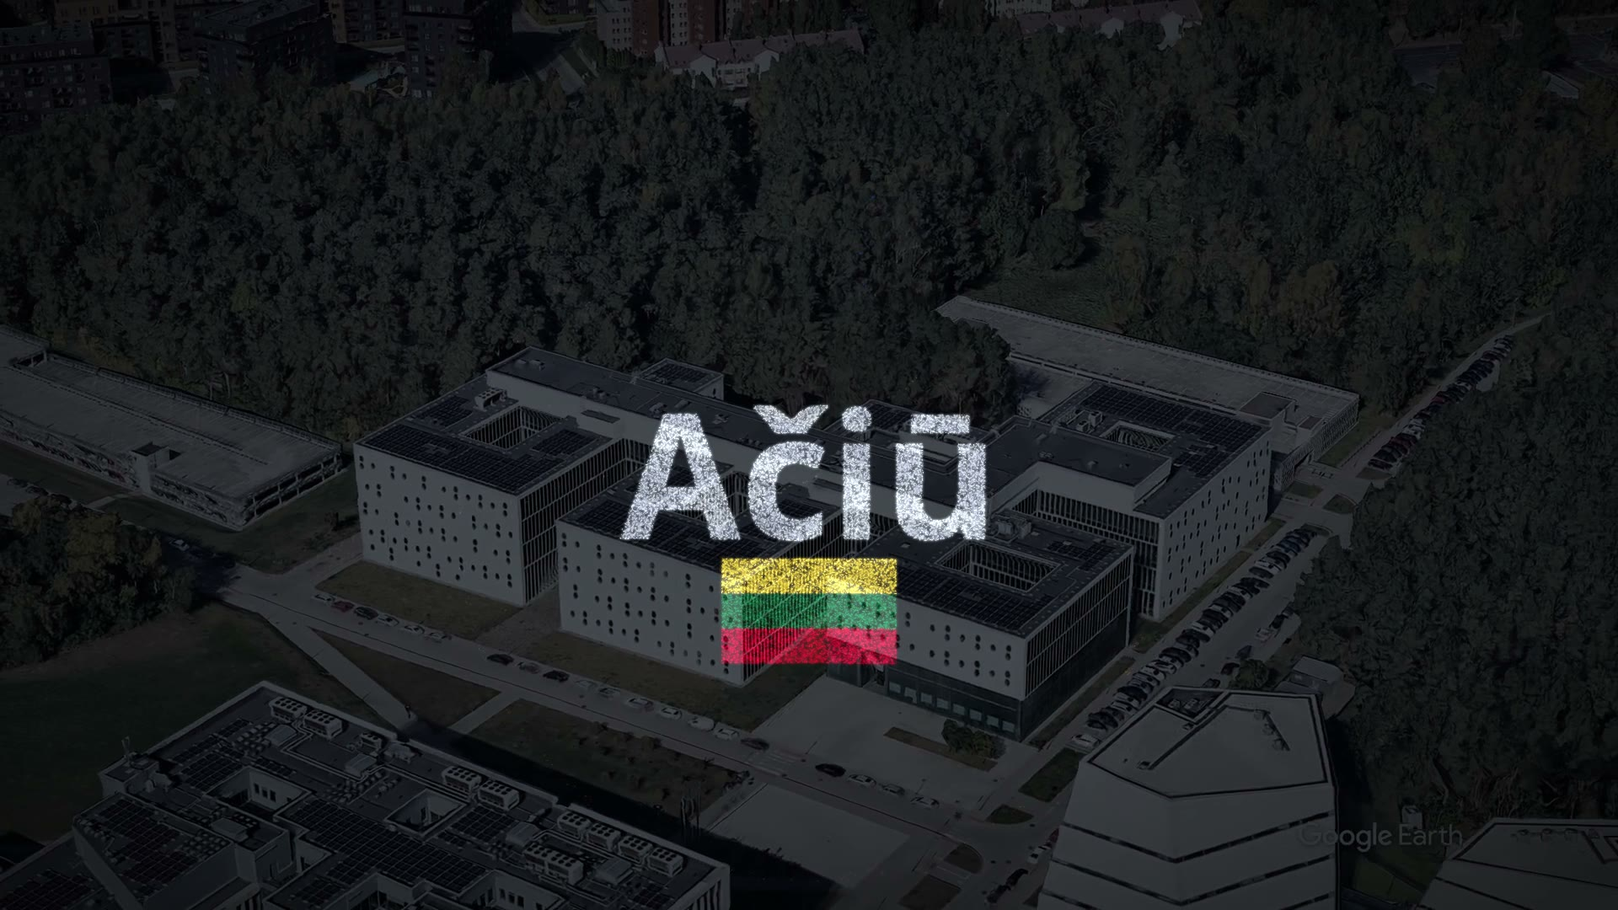
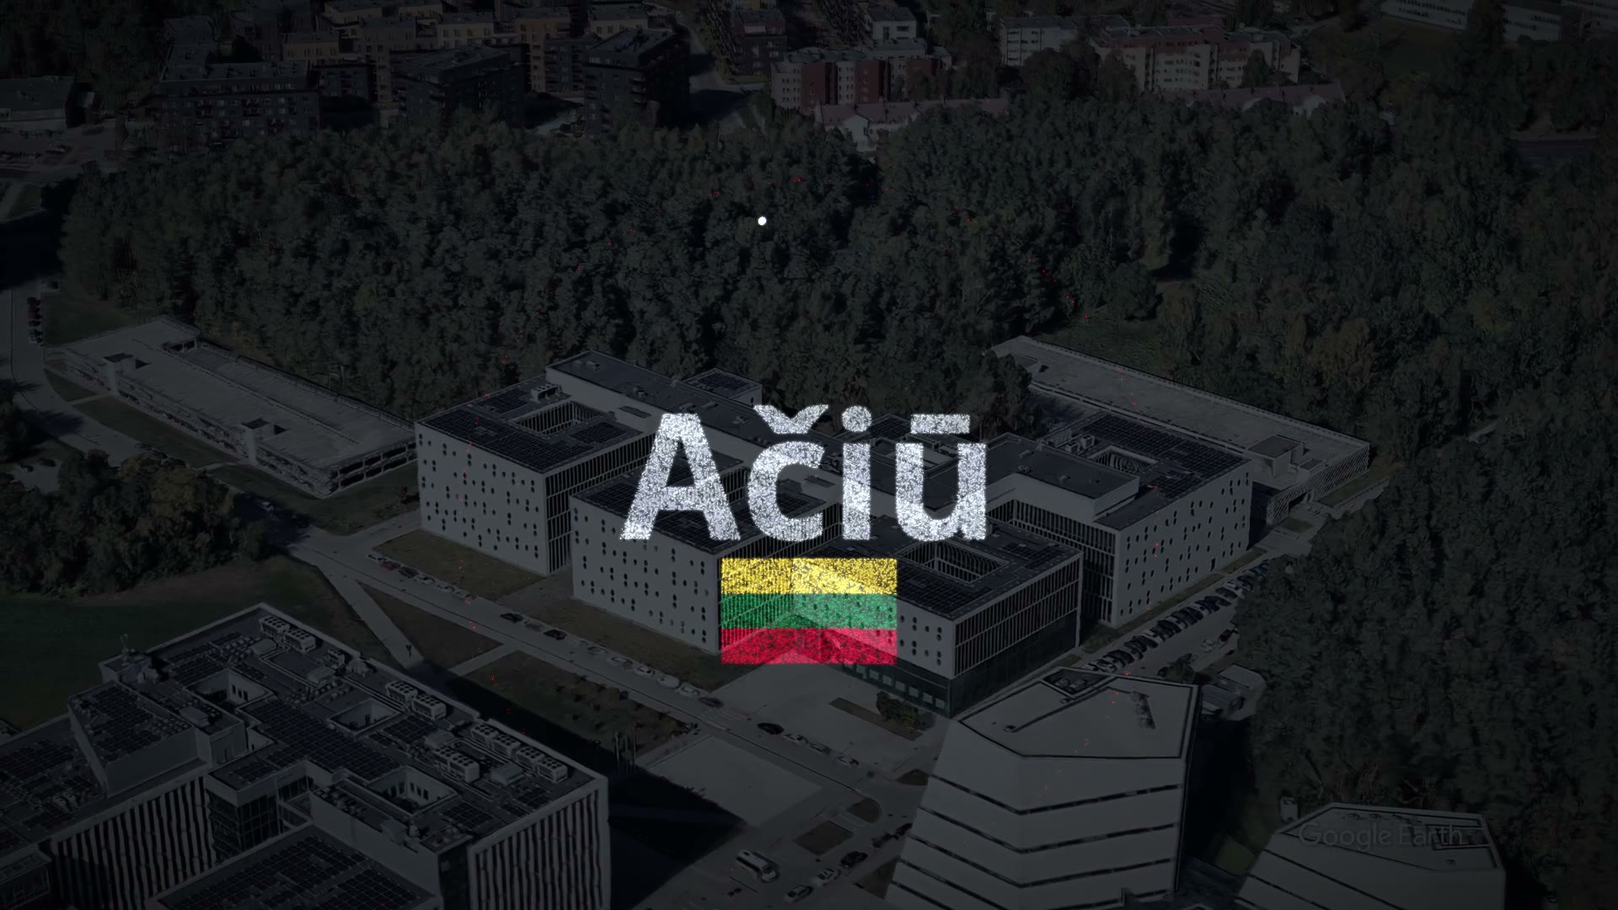
fix(innoday): the close smooth round NFTMC (frames blended, the fly-in at the opener's pace), „Ačiū“ from NFTMC's first view on the peak at 69.8 s, the collision full frame (a 4.5x close-up of the 4K take)
Owner, 22 Oct: "looks choppy... because of framerate ... start ACIU as soon as it's visible
(can still be around vilnius) maintain original or at least decent framerate"; "and collision
full frame".

Claude-Session: https://claude.ai/code/session_01LomYF1saeBXf9UwwiHvwyK

diff --git a/talks/2026_10_23_Innoday/hero/bookend.py b/talks/2026_10_23_Innoday/hero/bookend.py
@@ -29,12 +29,13 @@ from scipy.ndimage import maximum_filter, gaussian_filter
 W, H, FPS = 1920, 1080, 50
 T_STILL = (56.95, 57.95)   # the take: the camera stands still over the map
 T_CROSS = 61.2             # the take: the word's collision crosses
-V_HIT = 79.8               # the clip: the crossing, on Starfire's peak (the music's 2:54.85: the Soundtrack's `drop` brings it here)
+V_LAND = 76.55             # the clip: the fly-in comes to rest on NFTMC
+FLY_IN = 10.0              # the dive's last s: flying in to NFTMC at about the opener's own pace (owner: "better to fly in to it for the last 10 seconds")
+V_SEE = V_LAND - FLY_IN    # NFTMC in view: the word's bunches come in now, over Vilnius (owner: "start ACIU as soon as it's visible (can still be around vilnius)")
+V_HIT = V_SEE + (T_CROSS - T_STILL[1])   # the crossing, on Starfire's peak (the music's 2:54.85: the Soundtrack's `drop` brings it here)
 SHIFT = V_HIT - T_CROSS    # the take's word, later in the clip
 V_OUT0, V_OUT1 = 57.4, 61.0   # the map away, the Earth up (owner, on the 28 s dive: "Make this going back to vilnius quicker")
-FLY_IN = 10.0                 # the dive's last s: flying in to NFTMC at about the opener's own pace (owner: "better to fly in to it for the last 10 seconds")
-DRIFT = 0.12                  # after the landing, the opener forwards at this rate: "then very slowly start zooming out again"
-V_LAND = V_HIT - (T_CROSS - T_STILL[1])   # NFTMC reached as the word's bunches come in
+DRIFT = 0.15                  # after the landing, the opener forwards at this rate: "then very slowly start zooming out again"
 KNEE = 4.0
 
 ap = argparse.ArgumentParser()
@@ -51,18 +52,21 @@ EARTH_T = x.earth_t
 GX, GY = (float(v) for v in x.geneva.split(','))
 
 
-def reader(path, t0, t1=None, fps=None):
+def reader(path, t0, t1=None, fps=None, native=None):
+    # native: (w, h) as recorded, unscaled (the 4K take, for the collision's close-up)
+    w, h = native or (W, H)
     args = ['ffmpeg', '-v', 'error', '-ss', f'{t0:.3f}', '-i', path]
     if t1 is not None: args += ['-t', f'{t1 - t0:.3f}']
-    vf = [f'scale={W}:{H}:flags=lanczos'] + ([f'fps={fps}'] if fps else [])
-    args += ['-vf', ','.join(vf), '-f', 'rawvideo', '-pix_fmt', 'rgb24', '-']
-    p = subprocess.Popen(args, stdout=subprocess.PIPE, stderr=subprocess.DEVNULL, bufsize=W * H * 3 * 4)
-    n = W * H * 3
+    vf = ([] if native else [f'scale={W}:{H}:flags=lanczos']) + ([f'fps={fps}'] if fps else [])
+    if vf: args += ['-vf', ','.join(vf)]
+    args += ['-f', 'rawvideo', '-pix_fmt', 'rgb24', '-']
+    p = subprocess.Popen(args, stdout=subprocess.PIPE, stderr=subprocess.DEVNULL, bufsize=w * h * 3 * 4)
+    n = w * h * 3
     try:
         while True:
             b = p.stdout.read(n)
             if len(b) < n: break
-            yield np.frombuffer(b, np.uint8).reshape(H, W, 3)
+            yield np.frombuffer(b, np.uint8).reshape(h, w, 3)
     finally:
         p.kill()
 
@@ -114,6 +118,8 @@ keep = (1 - gaussian_filter(mask.astype(np.float32), 2.0))[..., None]
 
 def layer_of(f, t=None):
     L = np.clip(f - plate - floor - KNEE, 0, None) * keep
+    # where the take is white (the flash), white: the map's bright dashes under it cut dark dashes
+    L = np.where(f >= 245, np.maximum(L, f), L)
     # the 4K grains are finer: the campus shows between them, and the word reads as chalk; each
     # pixel at least its close neighbourhood's light, so the letters and stripes read solid
     return np.maximum(L, gaussian_filter(L, sigma=(1.3, 1.3, 0)))
@@ -132,42 +138,44 @@ def zoomed(img, s, cx, cy):
 earth = one(x.opener, EARTH_T)
 nftmc = one(x.opener, 0.0)
 # the dive: read forward through the reversed opener, frame by frame as the clip needs them
-class Dive:
-    def __init__(self): self.it, self.k, self.f = None, -1, None
-    def at(self, r):
-        want = max(0, int(round(r * 60)))
-        if x.stills: return one(x.dive, want / 60)
-        if self.it is None or want < self.k: self.it, self.k = reader(x.dive, 0), -1
-        while self.k < want:
-            nxt = next(self.it, None)
-            if nxt is None: break
-            self.f, self.k = nxt, self.k + 1
-        return self.f.astype(np.float32)
-dive = Dive()
-
-
-class Fwd:
-    """the opener forwards (60 fps), frame by frame as the clip needs them"""
-    def __init__(self): self.it, self.k, self.f = None, -1, None
+class Seq60:
+    """a 60 fps video read forward; a time between two frames is their blend, so a slow pass
+    glides instead of stepping (owner: "looks choppy... because of framerate")"""
+    def __init__(self, path): self.path, self.it, self.k, self.cache = path, None, -1, {}
+    def frame(self, k):
+        if k in self.cache: return self.cache[k]
+        if x.stills:
+            try: f = one(self.path, k / 60)
+            except StopIteration: f = self.cache[max(self.cache)] if self.cache else one(self.path, 0)
+            self.cache[k] = f
+            return f
+        if self.it is None or k < self.k: self.it, self.k, self.cache = reader(self.path, 0), -1, {}
+        while self.k < k:
+            n = next(self.it, None)
+            if n is None: break
+            self.k += 1
+            self.cache[self.k] = n.astype(np.float32)
+            for j in [j for j in self.cache if j < self.k - 2]: del self.cache[j]
+        return self.cache[k] if k in self.cache else self.cache[max(self.cache)]
     def at(self, T):
-        want = max(0, int(round(T * 60)))
-        if x.stills: return one(x.opener, want / 60)
-        if self.it is None or want < self.k: self.it, self.k = reader(x.opener, 0), -1
-        while self.k < want:
-            nxt = next(self.it, None)
-            if nxt is None: break
-            self.f, self.k = nxt, self.k + 1
-        return self.f.astype(np.float32)
-fwd = Fwd()
+        pos = max(0.0, T * 60); k0 = int(np.floor(pos)); fr = pos - k0
+        a = self.frame(k0)
+        if fr < 1e-3: return a
+        b = self.frame(k0 + 1)
+        return a * (1 - fr) + b * fr
+dive = Seq60(x.dive)
+fwd = Seq60(x.opener)
 
 
 def dive_t(V):
-    # fast through space and the clouds, then the last FLY_IN s over the opener's last ~10 s,
-    # easing into the campus: T = EARTH_T (1-u)^p, with T = 10 at FLY_IN s before the landing
-    D = V_LAND - V_OUT1
-    u = np.clip((V - V_OUT1) / D, 0, 1)
-    p = np.log(10.0 / EARTH_T) / np.log(FLY_IN / D)
-    return EARTH_T * (1 - u) ** p
+    """the opener's time at clip time V: fast through space and the clouds (to its 10 s, NFTMC
+    in view, at V_SEE), then the fly-in at about its own pace (at most 1.33x), coming to rest on
+    NFTMC at V_LAND; the speeds meet at V_SEE"""
+    if V >= V_SEE:
+        d = max(0.0, V_LAND - V)
+        return -0.01 * d ** 3 + 0.2 * d ** 2   # 10 at d = 10 with speed 1, 0 at rest
+    L = V_SEE - V_OUT1; e = (V_SEE - V)
+    return 10.0 + e + (EARTH_T - 10.0 - L) * (e / L) ** 3
 
 
 def drift_t(V):
@@ -192,13 +200,15 @@ def compose(V, take_frame):
         # clouds appear"): gone by ~58.1 s, as the first clouds show, the Earth up by ~59.5 s
         return mp * (1 - smooth(0.0, 0.05, a)) + ea * smooth(0.03, 0.3, a)
     if V < V_LAND:
-        img = dive.at(x.dive_span - dive_t(V))
-        return grade(img, smooth(V_LAND - 3.0, V_LAND, V))
-    # landed: NFTMC, dark, and the take's word over it
-    base = grade(fwd.at(drift_t(V)), 1.0)
+        # the picture settles to the deck's dark ground before NFTMC is in view, so the word reads
+        base = grade(dive.at(x.dive_span - dive_t(V)), smooth(V_SEE - 2.5, V_SEE, V))
+        if V < V_SEE: return base
+    else:
+        # landed: then very slowly out again
+        base = grade(fwd.at(drift_t(V)), 1.0)
     t = V - SHIFT
     if t > 73 - 1 / FPS: t = 73 - 1 / FPS
-    return base + layer_of(take_at(t), t)
+    return base + word_layer(t)
 
 
 class Seq:
@@ -215,6 +225,64 @@ class Seq:
         return self.f.astype(np.float32)
 word_take = Seq(x.take)
 take_at = word_take.at
+
+
+# The collision full frame (owner: "and collision full frame"): from the bunches' arrival the
+# word's layer is a close-up of the 4K take round the collision (S_COL x: its spray, ~370 px of
+# 1080, fills the frame), easing back to the whole word by ~68 s of the take as the word gathers
+S_COL = 4.5
+C4 = (1920.0, 1156.0)   # the collision in the 4K take (960, 578 at 1080)
+def zoom_of(t): return 1 + (S_COL - 1) * (1 - smooth(63.5, 68.5, t))   # back over 5 s, as the word gathers
+class Take4:
+    def __init__(self): self.it, self.k, self.f, self.ready = None, -1, None, False
+    def prepare(self):
+        if self.ready: return
+        fs = None; lo = None
+        for f in reader(x.take, *T_STILL, native=(3840, 2160)):
+            g = f.astype(np.float32)
+            lo = g if lo is None else np.minimum(lo, g)
+        hi = None
+        for f in reader(x.take, *T_STILL, native=(3840, 2160)):
+            r = f.astype(np.float32) - lo
+            hi = r if hi is None else np.maximum(hi, r)
+        hi = maximum_filter(hi, size=(5, 5, 1)) * 1.5
+        hi[840:1660, 1380:2480] = np.minimum(hi[840:1660, 1380:2480], 12.0)
+        self.plate, self.floor = lo, hi
+        # the map without its thin bright lines: under the glow the renderer's tone curve adds
+        # less than the line's light, so the plain plate cut dark dashes into the spray
+        from scipy.ndimage import grey_opening
+        self.plate_open = grey_opening(lo, size=(9, 9, 1))
+        self.keep = np.repeat(np.repeat(keep, 2, axis=0), 2, axis=1)
+        self.ready = True
+    def at(self, t):
+        want = int(round(t * FPS))
+        if x.stills: return next(reader(x.take, want / FPS, native=(3840, 2160))).astype(np.float32)
+        if self.it is None or want < self.k: self.it, self.k = reader(x.take, want / FPS, native=(3840, 2160)), want - 1
+        while self.k < want:
+            n = next(self.it, None)
+            if n is None: break
+            self.f, self.k = n, self.k + 1
+        return self.f.astype(np.float32)
+take4 = Take4()
+def word_layer(t):
+    s = zoom_of(t)
+    if s <= 1.02: return layer_of(take_at(t), t)
+    take4.prepare()
+    w, h = 3840 / s, 2160 / s
+    x0 = int(round(min(max(C4[0] - w / 2, 0), 3840 - w))); y0 = int(round(min(max(C4[1] - h / 2, 0), 2160 - h)))
+    x1, y1 = x0 + int(round(w)), y0 + int(round(h))
+    f = take4.at(t)[y0:y1, x0:x1]
+    fl = take4.floor[y0:y1, x0:x1] + KNEE
+    L = np.clip(f - take4.plate[y0:y1, x0:x1] - fl, 0, None)
+    Lo = np.clip(f - take4.plate_open[y0:y1, x0:x1] - fl, 0, None)
+    # in the spray's light (the plain subtraction bright all round, blurred: a map line alone
+    # never is), the line-free plate
+    glow = smooth(25.0, 70.0, gaussian_filter(L.max(axis=2), 10.0)[..., None])
+    L = (L * (1 - glow) + Lo * glow) * take4.keep[y0:y1, x0:x1]
+    L = np.where(f >= 245, np.maximum(L, f), L)
+    L = np.maximum(L, gaussian_filter(L, sigma=(2.6, 2.6, 0)))
+    im = Image.fromarray(np.clip(L, 0, 255).astype(np.uint8)).resize((W, H), Image.LANCZOS)
+    return np.asarray(im).astype(np.float32)
 
 
 V_END = V_LAND + 35.0   # the word held over the slow zoom-out; the player holds the last frame

diff --git a/talks/2026_10_23_Innoday/deck.md b/talks/2026_10_23_Innoday/deck.md
@@ -696,12 +696,12 @@ space: { at: [9.54, -482.702, 0.96], dist: 2.236, yaw: -90.0, pitch: -29.74, dim
      world went on drawing under the whole recording (owner, 22 Oct: "MacPro M2 can't quite handle the final slide") -->
 <VideoPlayer src="close_home.mp4" muted :controls="false" transition="fade" />
 <Grains :set="{ det: 0, lhcbLogo: 0, ltMap: 0 }" />
-<Soundtrack :level="0.3" resync keys :drop="{ at: 79.8, file: 'audio/starfire_close_peak.m4a', hit: 2.013, duck: 77.0, quiet: 0.06 }" />
+<Soundtrack :level="0.3" resync keys :drop="{ at: 69.8, file: 'audio/starfire_close_peak.m4a', hit: 2.013, duck: 67.0, quiet: 0.06 }" />
 
 <!-- facts: lhcb-detector-size, lhcb-hlt1-30mhz, lhcb-trigger-5tbs-10gbs, cern-lhc-size-cost, cern-fcc-study -->
 
 <!--
-Kalbėtojui. Ši skaidrė dabar — įrašas (close_home.mp4, 1080p50, ~1 min 52 s; savininkas, 2026 10 22: kad nestrigtų), muzika lieka gyva, + ir − keičia jos garsumą; klavišas P sustabdo ir vėl paleidžia įrašą. Klipo paskutinis kadras (vėliava ant apatinės šaltosios dėžės, SciFi apačioje) virsta grūdeliais, ir kamera atsitraukia iš modulio galo į visą LHCb detektorių — taškų debesį pagal tikrąją geometriją (savininkas, 2026 10 21: „let's get back to point cloud“); išgraviruota vėliava kartu su modulio vaizdu, kuriame ji yra, lieka ten, kur LHCb sekiklyje iš tikrųjų stovi tas SciFi modulis (apatinė šaltoji dėžė), modulio padėtimi, ir kamerai tolstant mažėja iki tikrojo detektoriaus mastelio (~15 s), kol tampa mažyčiu ženklu; iš šono ji matoma kampu (savininkas, 2026 10 21: „the inscribed flag (on one of the SciFi mats) along with the mat itself moves to a position where scifi is. and reduces in size accordingly (because it's far away)“). Kamera nusileidžia iki kalbėtojo akių aukščio (1,71 m) ir žiūri į detektorių iš šono: LHCb užpildo kadrą nuo krašto iki krašto, visi 21 m (savininkas, 2026 10 22: „first zoom out untill you reach the eye level, so lhcb is full frame side to side“); arčiau kameros, dešinėje, stovi žmogus mastui (1,83 m, toks pat taškų debesis). Kamerai nusileidus, kartu su muzikos kulminacija (~18 s), susidūrimo taške susikerta tikro LHCb susidūrimo protonų paketai (savininkas: „LHCb collision within lhcb“): laikas beveik sustoja, tada susidūrime gimusios dalelės lekia per detektorių, ir kiekviena jo dalis sušvinta, kai jos ją pasiekia. Paskui kamera lėtai traukiasi atgal, vis dar akių aukštyje (~18–36 s), o susidūrimai kartojasi vis dažniau, kol jų blyksniai susilieja ir detektorius ima švytėti tolygiai (savininkas, 2026 10 20: „40 million collisions a second“; 2026 10 22: „then slowly move out until the beams run at full speed, only then zoom out to lhc fcc“): ryšuliai LHCb susikerta 40 mln. kartų per sekundę, ir visas detektorius nuskaitomas kiekvieną kartą. Tada be sustojimo, lėtai (~36–57 kelio s, apie pusę minutės; savininkas, 2026 10 22: „The zoomout to FCC should be slow and continuous“) kamera traukiasi toliau ir kyla, kol žiūri tiesiai žemyn, šiaurė viršuje (savininkas, 2026 10 22, su CERN FCC žemėlapiu: „For the last one, can you use something like this?“): LHCb kartu su vėliava susitraukia į tašką, ir aplink jį išnyra žemėlapis tikrosiomis proporcijomis: LHC žiedas (26,7 km) su dviem priešpriešiais skriejančiais pluoštais (žydru ir baltu); SPS, PS ir pernešimo linijų nėra (savininkas, 2026 10 22: „the inner ring of the lhc doesn't make sense... don't show it“); oranžiniu punktyru — siūlomas FCC žiedas (90,7 km) per savo aštuonias antžemines vietas, Ženevos ežeras, Prancūzijos ir Šveicarijos siena, Rona, Jura ir Salève; logotipas pakyla į kadro viršų, o maža Lietuvos vėliava nuo SciFi vietos atkeliauja prie LHCb taško žemėlapyje, tiesiai po LHC žiedu, ir lieka ten iki galo (savininkas, 2026 10 22: „Still need lithuanian flag on 30“; 2026 10 21: „can show the accelerator as well, so this doesn't look isolated, it's a part of huge infrastructure“; „still want to see LHC, FCC, and 2 beams circulating“). Kamerai sustojus (~57 s), žemėlapis nuskrieja tolyn, ir aplink jį iškyla visa Žemė; tada kelionė namo — žemyn į Lietuvą ir Vilnių, tuo pačiu skrydžiu, kuriuo pranešimas prasidėjo, tik atgal, paskutines 10 s įskrendant į NFTMC Saulėtekyje (nusileidžiama ~77 s; „…ir atgal“; savininkas, 2026 10 22: „Go ahead and do it“; „shouldn't there be world zooming out and so on to Vilnius?“). Skrydžio metu muzika rimsta, paskui vėl kyla; prieš pat „Ačiū“ ji trumpam beveik nutyla, ir ties jos kulminacija (~80 s; „Starfire“ 2:54,85, išmatuota garso faile) virš Vilniaus susiduria protonų paketai, o iš susidūrimo išlėkusios dalelės vingiuotomis trajektorijomis sugula į „Ačiū“, po juo — į Lietuvos vėliavą (savininkas, 2026 10 22: „aciu should appear out of particle collision“; „Also Lithuanian flag should appear with aciu“). LHCb vieta LHC žiede (8-asis taškas) pažymėta šviesiu tašku. Pavadinimų ekrane nėra: žiedus įvardyti žodžiu, kol jie ekrane (~45–58 s); per skrydį namo nekalbėti (viršuje kairėje mažesnis — LHC, didysis oranžinis punktyrinis — FCC; ežeras — į dešinę nuo LHC). LHCb ir kompleksas nupiešti skirtingu masteliu (LHCb ilgis 21 m): kompleksas rodo, kur LHCb stovi. Po „Ačiū“ vaizdas labai lėtai vėl ima tolti nuo NFTMC (savininkas, 2026 10 22: „better to fly in to it for the last 10 seconds and then very slowly start zooming out again“); per klausimus lieka paskutinis įrašo kadras — Vilnius su „Ačiū“ ir vėliava. Muzika po minutės pati nutyla.
+Kalbėtojui. Ši skaidrė dabar — įrašas (close_home.mp4, 1080p50, ~1 min 52 s; savininkas, 2026 10 22: kad nestrigtų), muzika lieka gyva, + ir − keičia jos garsumą; klavišas P sustabdo ir vėl paleidžia įrašą. Klipo paskutinis kadras (vėliava ant apatinės šaltosios dėžės, SciFi apačioje) virsta grūdeliais, ir kamera atsitraukia iš modulio galo į visą LHCb detektorių — taškų debesį pagal tikrąją geometriją (savininkas, 2026 10 21: „let's get back to point cloud“); išgraviruota vėliava kartu su modulio vaizdu, kuriame ji yra, lieka ten, kur LHCb sekiklyje iš tikrųjų stovi tas SciFi modulis (apatinė šaltoji dėžė), modulio padėtimi, ir kamerai tolstant mažėja iki tikrojo detektoriaus mastelio (~15 s), kol tampa mažyčiu ženklu; iš šono ji matoma kampu (savininkas, 2026 10 21: „the inscribed flag (on one of the SciFi mats) along with the mat itself moves to a position where scifi is. and reduces in size accordingly (because it's far away)“). Kamera nusileidžia iki kalbėtojo akių aukščio (1,71 m) ir žiūri į detektorių iš šono: LHCb užpildo kadrą nuo krašto iki krašto, visi 21 m (savininkas, 2026 10 22: „first zoom out untill you reach the eye level, so lhcb is full frame side to side“); arčiau kameros, dešinėje, stovi žmogus mastui (1,83 m, toks pat taškų debesis). Kamerai nusileidus, kartu su muzikos kulminacija (~18 s), susidūrimo taške susikerta tikro LHCb susidūrimo protonų paketai (savininkas: „LHCb collision within lhcb“): laikas beveik sustoja, tada susidūrime gimusios dalelės lekia per detektorių, ir kiekviena jo dalis sušvinta, kai jos ją pasiekia. Paskui kamera lėtai traukiasi atgal, vis dar akių aukštyje (~18–36 s), o susidūrimai kartojasi vis dažniau, kol jų blyksniai susilieja ir detektorius ima švytėti tolygiai (savininkas, 2026 10 20: „40 million collisions a second“; 2026 10 22: „then slowly move out until the beams run at full speed, only then zoom out to lhc fcc“): ryšuliai LHCb susikerta 40 mln. kartų per sekundę, ir visas detektorius nuskaitomas kiekvieną kartą. Tada be sustojimo, lėtai (~36–57 kelio s, apie pusę minutės; savininkas, 2026 10 22: „The zoomout to FCC should be slow and continuous“) kamera traukiasi toliau ir kyla, kol žiūri tiesiai žemyn, šiaurė viršuje (savininkas, 2026 10 22, su CERN FCC žemėlapiu: „For the last one, can you use something like this?“): LHCb kartu su vėliava susitraukia į tašką, ir aplink jį išnyra žemėlapis tikrosiomis proporcijomis: LHC žiedas (26,7 km) su dviem priešpriešiais skriejančiais pluoštais (žydru ir baltu); SPS, PS ir pernešimo linijų nėra (savininkas, 2026 10 22: „the inner ring of the lhc doesn't make sense... don't show it“); oranžiniu punktyru — siūlomas FCC žiedas (90,7 km) per savo aštuonias antžemines vietas, Ženevos ežeras, Prancūzijos ir Šveicarijos siena, Rona, Jura ir Salève; logotipas pakyla į kadro viršų, o maža Lietuvos vėliava nuo SciFi vietos atkeliauja prie LHCb taško žemėlapyje, tiesiai po LHC žiedu, ir lieka ten iki galo (savininkas, 2026 10 22: „Still need lithuanian flag on 30“; 2026 10 21: „can show the accelerator as well, so this doesn't look isolated, it's a part of huge infrastructure“; „still want to see LHC, FCC, and 2 beams circulating“). Kamerai sustojus (~57 s), žemėlapis nuskrieja tolyn, ir aplink jį iškyla visa Žemė; tada kelionė namo — žemyn į Lietuvą ir Vilnių, tuo pačiu skrydžiu, kuriuo pranešimas prasidėjo, tik atgal, paskutines 10 s įskrendant į NFTMC Saulėtekyje (nusileidžiama ~77 s; „…ir atgal“; savininkas, 2026 10 22: „Go ahead and do it“; „shouldn't there be world zooming out and so on to Vilnius?“). Skrydžio metu muzika rimsta, paskui vėl kyla; prieš pat „Ačiū“ ji trumpam beveik nutyla, ir vos pasirodžius NFTMC, dar skrendant virš Vilniaus, ties jos kulminacija (~70 s; „Starfire“ 2:54,85, išmatuota garso faile) virš Vilniaus visu kadru susiduria protonų paketai, o iš susidūrimo išlėkusios dalelės vingiuotomis trajektorijomis sugula į „Ačiū“, po juo — į Lietuvos vėliavą (savininkas, 2026 10 22: „aciu should appear out of particle collision“; „Also Lithuanian flag should appear with aciu“). LHCb vieta LHC žiede (8-asis taškas) pažymėta šviesiu tašku. Pavadinimų ekrane nėra: žiedus įvardyti žodžiu, kol jie ekrane (~45–58 s); per skrydį namo nekalbėti (viršuje kairėje mažesnis — LHC, didysis oranžinis punktyrinis — FCC; ežeras — į dešinę nuo LHC). LHCb ir kompleksas nupiešti skirtingu masteliu (LHCb ilgis 21 m): kompleksas rodo, kur LHCb stovi. Po „Ačiū“ vaizdas labai lėtai vėl ima tolti nuo NFTMC (savininkas, 2026 10 22: „better to fly in to it for the last 10 seconds and then very slowly start zooming out again“); per klausimus lieka paskutinis įrašo kadras — Vilnius su „Ačiū“ ir vėliava. Muzika po minutės pati nutyla.
 Muzika čia tylesnė (0,3, kaip šviesos įvedimo skaidrėje; savininkas, 2026 10 22: „the last soundtrack 50% quieter“); garsumą galima keisti klavišais + ir − (skaidrėse be klipo jie keičia muziką ir gaudimą, su klipu — klipo garsumą; lygis trumpam parodomas tik pranešėjo lange, žiūrovai nieko nemato; savininkas, 2026 10 22: „invisible, but -+ to control“).
 Nuorodų ekrane nėra: licencijų reikalaujamos nuorodos — kitame puslapyje, kurio nerodyti (savininkas, 2026 10 19: „We don't need credits at the last slide“).
 Sakyti: „Žiniatinklis, jutiklinis ekranas ir spalvotos 3D rentgenogramos atsirado iš problemų, kurias fizikams iškėlė klausimas, iš ko sudarytas pasaulis. FCC iškels naujų problemų. Jei jūsų įmonė nori tiekti CERN, užsiregistruokite CERN tiekėjų portale ir parašykite Inovacijų agentūros specialistei, kuri rūpinasi įmonių bendradarbiavimu su CERN. Ačiū, laukiu klausimų.“

diff --git a/talks/2026_10_23_Innoday/CLAUDE.md b/talks/2026_10_23_Innoday/CLAUDE.md
@@ -441,6 +441,13 @@ v0.8.1 since 20 Oct and builds the zip local-first itself).
   out again" (read as: not a still): the dive fast through space and the clouds, its last 10 s
   a fly-in easing onto NFTMC (~76.5 s), and under „Ačiū“ the opener forwards at 0.12× (the clip
   ~111.5 s, then held).
+  Then: "looks choppy... because of framerate ... need the video to be smooth around NFTMC, so
+  start ACIU as soon as it's visible (can still be around vilnius) maintain original or at least
+  decent framerate": the fly-in at about the opener's own pace (at most 1.33×), every slower
+  pass a blend of neighbouring frames (no held frames), the word's bunches from 66.55 s (NFTMC
+  in view), the crossing and the peak at 69.8 s, the landing at 76.55 s.
+  And "and collision full frame": the collision is a close-up of the 4K take (4.5×: its spray
+  fills the frame), easing back to the whole word as it gathers (the take's 64–68 s).
 
 Dated detail in `HANDOFF.md`. The ones a later session must not undo:
 
